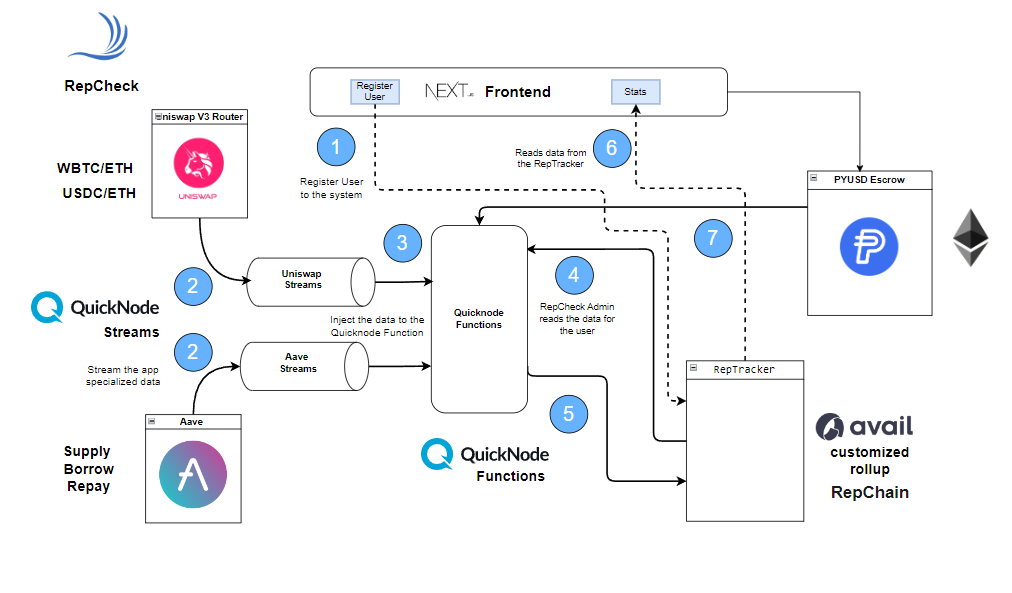
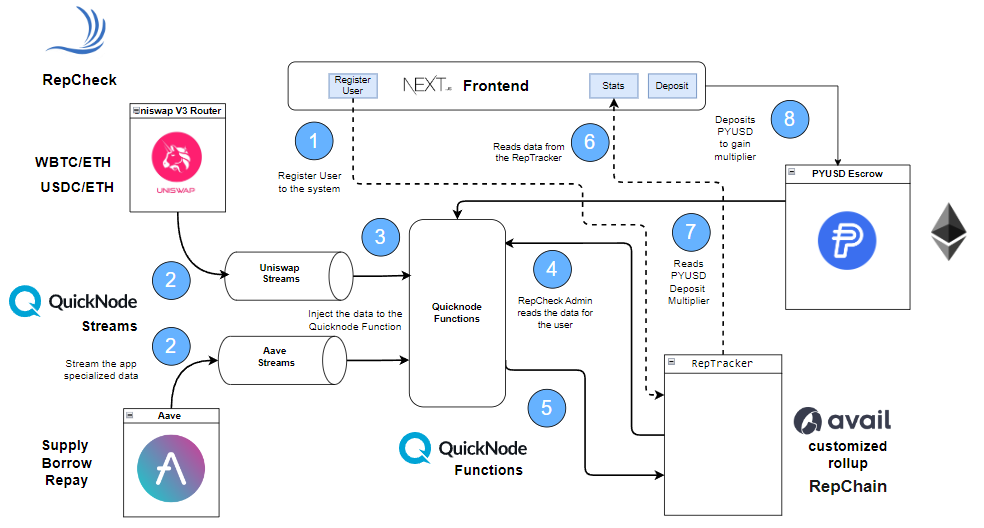
App Completion 2.0

diff --git a/backend/Quicknode_Functions/functions_codeV2.js b/backend/Quicknode_Functions/functions_codeV2.js
@@ -315,6 +315,9 @@ let provider = new ethers.JsonRpcProvider(
   "https://radial-red-breeze.ethereum-sepolia.quiknode.pro/b0889c7d0a35d0f4df1a4ad8d36c4dc7341ed119"
 );
 
+let repChainProvider =  new ethers.JsonRpcProvider(
+  "https://rpc.reponchain.com/"
+);
 
 const pyusdEscrowABI = [
 	{
@@ -521,7 +524,7 @@ const pyusdContractAddress = "0xB1CC11d6197751BEbEAd9499910dE267B0A19Ed0";
 
 const wallet = new ethers.Wallet(
[1 lines of base64/hex data omitted]
-  provider
+  repChainProvider
 );
 
 const repTrackerContractWithAdmin = new ethers.Contract(
@@ -533,7 +536,7 @@ const repTrackerContractWithAdmin = new ethers.Contract(
 const pyUSDContract = new ethers.Contract(
   pyusdContractAddress,
   pyusdEscrowABI,
-  wallet
+  provider
 );
 
 let MULTIPLIER = 1;
